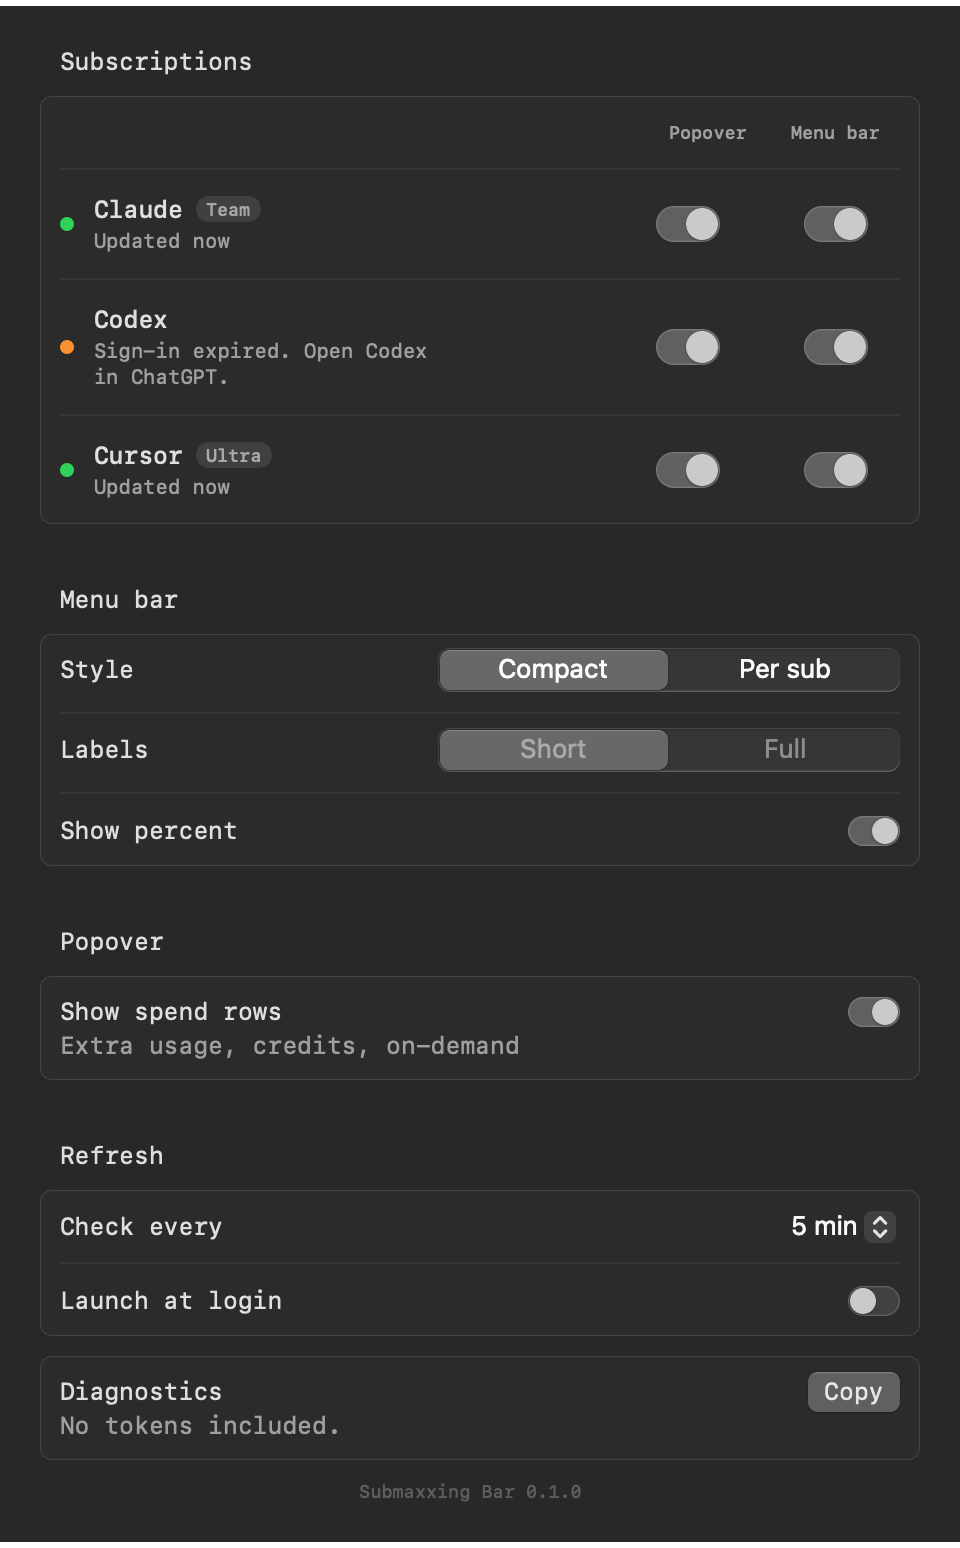
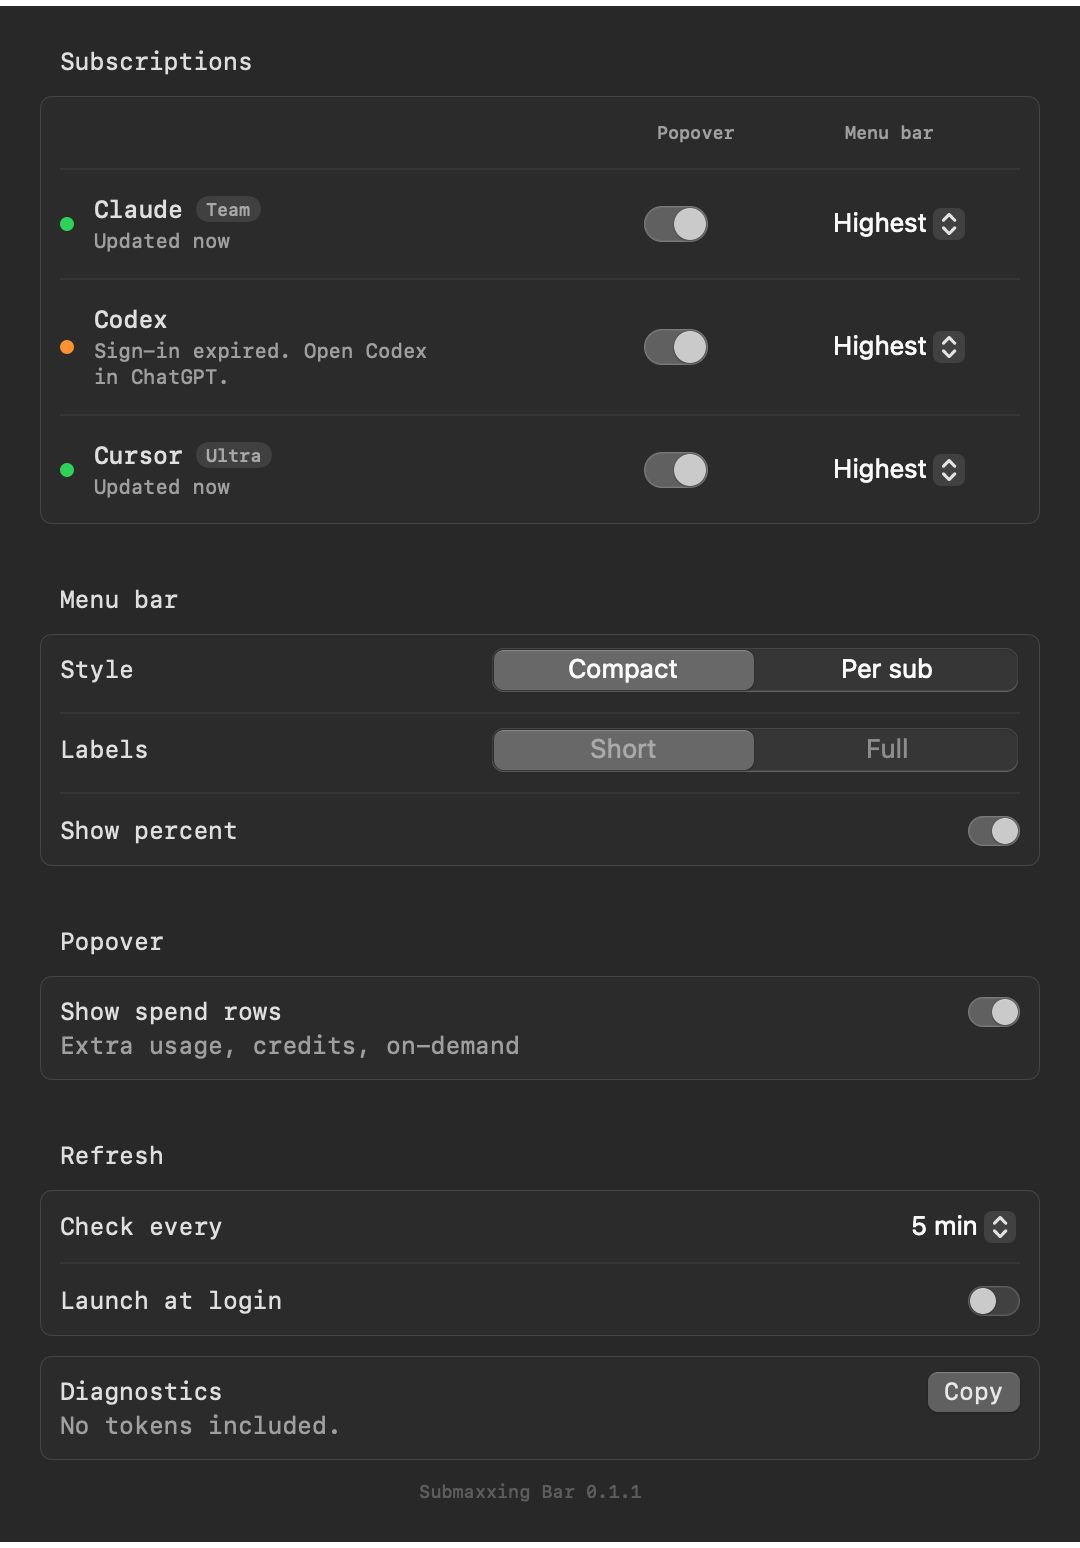
Release 0.1.1: AppKit status item, per-sub menu bar choice, 429 backoff
SwiftUI's MenuBarExtra drew its popover away from the menu bar after
the status item changed width. An NSStatusItem with an NSPopover now
anchors the popover to the button and resizes it with its content.

Each subscription now picks what the menu bar shows: off, its highest
plan meter, or one specific meter. Existing switches migrate to off
or highest.

A 429 now pauses that provider for 5 minutes, doubling up to an hour,
or until Retry-After when the server sends it. The row keeps the last
numbers and shows the next try time. The shortest refresh interval
is now 5 minutes.

release.sh refuses to publish from a dirty tree or an unpushed main.

diff --git a/Sources/SubmaxxingBar/SettingsView.swift b/Sources/SubmaxxingBar/SettingsView.swift
@@ -23,6 +23,7 @@ final class SettingsWindow {
 
 struct SettingsView: View {
     static let column: CGFloat = 64
+    static let menuColumn: CGFloat = 130
 
     let store: UsageStore
     @Bindable var settings: AppSettings
@@ -35,7 +36,7 @@ struct SettingsView: View {
                     HStack(spacing: 0) {
                         Spacer()
                         Text("Popover").frame(width: Self.column)
-                        Text("Menu bar").frame(width: Self.column)
+                        Text("Menu bar").frame(width: Self.menuColumn)
                     }
                     .face(10, .medium)
                     .foregroundStyle(.secondary)
@@ -85,7 +86,7 @@ struct SettingsView: View {
             .formStyle(.grouped)
             .face(13)
             .scrollDisabled(true)
-            .frame(width: 480)
+            .frame(width: 540)
             .fixedSize(horizontal: false, vertical: true)
         }
     }
@@ -117,12 +118,15 @@ struct ProviderRow: View {
                 .toggleStyle(.switch)
                 .controlSize(.small)
                 .frame(width: SettingsView.column)
-            Toggle("Show \(id.displayName) in menu bar", isOn: menuBarBinding)
-                .labelsHidden()
-                .toggleStyle(.switch)
-                .controlSize(.small)
-                .frame(width: SettingsView.column)
-                .disabled(!settings.enabled.contains(id))
+            Picker("Menu bar for \(id.displayName)", selection: choiceBinding) {
+                Text("Off").tag(AppSettings.off)
+                Text("Highest").tag(AppSettings.highest)
+                ForEach(meterChoices, id: \.self) { Text($0).tag($0) }
+            }
+            .labelsHidden()
+            .pickerStyle(.menu)
+            .frame(width: SettingsView.menuColumn)
+            .disabled(!settings.enabled.contains(id))
         }
         .padding(.vertical, 2)
         .help(id.sourceDescription)
@@ -142,13 +146,20 @@ struct ProviderRow: View {
         )
     }
 
-    private var menuBarBinding: Binding<Bool> {
+    private var choiceBinding: Binding<String> {
         Binding(
-            get: { settings.enabled.contains(id) && settings.menuBarProviders.contains(id) },
-            set: { isOn in
-                if isOn { settings.menuBarProviders.insert(id) } else { settings.menuBarProviders.remove(id) }
-            }
+            get: { settings.menuBarChoice(for: id) },
+            set: { settings.menuBarChoices[id] = $0 }
         )
+    }
+
+    private var meterChoices: [String] {
+        var labels = store.entries[id]?.snapshot?.meters.filter { $0.kind == .quota }.map(\.label) ?? []
+        let current = settings.menuBarChoice(for: id)
+        if current != AppSettings.off, current != AppSettings.highest, !labels.contains(current) {
+            labels.append(current)
+        }
+        return labels
     }
 
     private var status: (color: Color, text: String) {

diff --git a/Sources/SubmaxxingBar/UsageStore.swift b/Sources/SubmaxxingBar/UsageStore.swift
@@ -18,6 +18,7 @@ final class UsageStore {
     @ObservationIgnored let settings: AppSettings
     @ObservationIgnored private let providers: [any UsageProvider]
     @ObservationIgnored private var loop: Task<Void, Never>?
+    @ObservationIgnored private var backoff: [ProviderID: (until: Date, attempts: Int)] = [:]
 
     init(providers: [any UsageProvider], settings: AppSettings) {
         self.providers = providers
@@ -36,9 +37,10 @@ final class UsageStore {
 
     func refresh(force: Bool = false) async {
         guard !isRefreshing else { return }
-        if !force, let lastRefresh, Date().timeIntervalSince(lastRefresh) < 60 { return }
+        if !force, let lastRefresh, Date().timeIntervalSince(lastRefresh) < 120 { return }
         isRefreshing = true
-        let active = providers.filter { settings.enabled.contains($0.id) }
+        let now = Date()
+        let active = providers.filter { settings.enabled.contains($0.id) && (backoff[$0.id]?.until ?? .distantPast) <= now }
         let results = await withTaskGroup(of: (ProviderID, Result<UsageSnapshot, FetchError>).self) { group in
             for provider in active {
                 group.addTask {
@@ -59,6 +61,13 @@ final class UsageStore {
             case .success(let snapshot):
                 entry.snapshot = snapshot
                 entry.error = nil
+                backoff[id] = nil
+            case .failure(.rateLimited(let until)):
+                let attempts = (backoff[id]?.attempts ?? 0) + 1
+                let wait = min(3600, 300 * pow(2, Double(attempts - 1)))
+                let next = max(until ?? .distantPast, Date().addingTimeInterval(wait))
+                backoff[id] = (next, attempts)
+                entry.error = .rateLimited(until: next)
             case .failure(let error):
                 entry.error = error
             }
@@ -84,9 +93,15 @@ final class UsageStore {
     }
 
     var menuBarSegments: [MenuBarImage.Segment] {
-        let items = visible
-            .filter { settings.menuBarProviders.contains($0) }
-            .compactMap { id in entries[id]?.snapshot?.peakPercent.map { (id: id, percent: $0) } }
+        let items: [(id: ProviderID, percent: Double)] = visible.compactMap { id in
+            let choice = settings.menuBarChoice(for: id)
+            guard choice != AppSettings.off, let snapshot = entries[id]?.snapshot else { return nil }
+            if choice != AppSettings.highest,
+               let meter = snapshot.meters.first(where: { $0.kind == .quota && $0.label == choice }) {
+                return (id, meter.usedPercent)
+            }
+            return snapshot.peakPercent.map { (id, $0) }
+        }
         switch settings.menuBarStyle {
         case .compact:
             guard let peak = items.map(\.percent).max() else { return [] }

diff --git a/Sources/SubmaxxingBar/AppSettings.swift b/Sources/SubmaxxingBar/AppSettings.swift
@@ -38,15 +38,20 @@ extension ProviderID {
 @MainActor
 @Observable
 final class AppSettings {
-    static let refreshChoices = [2, 5, 10, 15]
+    static let refreshChoices = [5, 10, 15, 30]
+    static let off = "off"
+    static let highest = "highest"
 
     @ObservationIgnored private let defaults: UserDefaults
 
     var enabled: Set<ProviderID> {
         didSet { save(enabled, forKey: "enabled") }
     }
-    var menuBarProviders: Set<ProviderID> {
-        didSet { save(menuBarProviders, forKey: "menuBarProviders") }
+    var menuBarChoices: [ProviderID: String] {
+        didSet {
+            let stored = Dictionary(uniqueKeysWithValues: menuBarChoices.map { ($0.key.rawValue, $0.value) })
+            defaults.set(stored, forKey: "menuBarChoices")
+        }
     }
     var menuBarStyle: MenuBarStyle {
         didSet { defaults.set(menuBarStyle.rawValue, forKey: "menuBarStyle") }
@@ -71,13 +76,27 @@ final class AppSettings {
     init(defaults: UserDefaults = .standard) {
         self.defaults = defaults
         enabled = Self.providers(defaults, forKey: "enabled")
-        menuBarProviders = Self.providers(defaults, forKey: "menuBarProviders")
+        if let stored = defaults.dictionary(forKey: "menuBarChoices") as? [String: String] {
+            menuBarChoices = Dictionary(uniqueKeysWithValues: stored.compactMap { key, value in
+                ProviderID(rawValue: key).map { ($0, value) }
+            })
+        } else {
+            let legacy = defaults.stringArray(forKey: "menuBarProviders")
+            menuBarChoices = Dictionary(uniqueKeysWithValues: ProviderID.allCases.map { id in
+                (id, legacy.map { $0.contains(id.rawValue) ? Self.highest : Self.off } ?? Self.highest)
+            })
+        }
         menuBarStyle = MenuBarStyle(rawValue: defaults.string(forKey: "menuBarStyle") ?? "") ?? .compact
         menuBarLabels = MenuBarLabels(rawValue: defaults.string(forKey: "menuBarLabels") ?? "") ?? .short
         showPercent = defaults.object(forKey: "showPercent") as? Bool ?? true
         showSpend = defaults.object(forKey: "showSpend") as? Bool ?? true
-        refreshMinutes = defaults.object(forKey: "refreshMinutes") as? Int ?? 5
+        let storedMinutes = defaults.object(forKey: "refreshMinutes") as? Int ?? 5
+        refreshMinutes = Self.refreshChoices.contains(storedMinutes) ? storedMinutes : 5
         launchAtLogin = SMAppService.mainApp.status == .enabled
+    }
+
+    func menuBarChoice(for id: ProviderID) -> String {
+        menuBarChoices[id] ?? Self.highest
     }
 
     private static func providers(_ defaults: UserDefaults, forKey key: String) -> Set<ProviderID> {

diff --git a/Sources/SubmaxxingBar/StatusItemController.swift b/Sources/SubmaxxingBar/StatusItemController.swift
@@ -1,0 +1,68 @@
+import AppKit
+import LimitsCore
+import Observation
+import SwiftUI
+
+@MainActor
+final class StatusItemController: NSObject {
+    private(set) static var shared: StatusItemController?
+
+    private let store: UsageStore
+    private let item = NSStatusBar.system.statusItem(withLength: NSStatusItem.variableLength)
+    private let popover = NSPopover()
+
+    init(store: UsageStore) {
+        self.store = store
+        super.init()
+        item.autosaveName = "submaxxing-bar"
+        item.button?.target = self
+        item.button?.action = #selector(toggle)
+        item.button?.toolTip = AppInfo.name
+        let hosting = NSHostingController(rootView: MenuContent(store: store, refreshOnAppear: false))
+        hosting.sizingOptions = [.preferredContentSize]
+        popover.contentViewController = hosting
+        popover.behavior = .transient
+        Self.shared = self
+        observeLabel()
+    }
+
+    func closePopover() {
+        popover.performClose(nil)
+    }
+
+    private func observeLabel() {
+        withObservationTracking {
+            renderLabel()
+        } onChange: { [weak self] in
+            Task { @MainActor in self?.observeLabel() }
+        }
+    }
+
+    private func renderLabel() {
+        let segments = store.menuBarSegments
+        let settings = store.settings
+        if segments.isEmpty {
+            let image = NSImage(systemSymbolName: "gauge.with.dots.needle.33percent", accessibilityDescription: AppInfo.name)
+            image?.isTemplate = true
+            item.button?.image = image
+        } else {
+            item.button?.image = MenuBarImage.make(
+                segments,
+                showPercent: settings.showPercent,
+                percentSign: settings.menuBarStyle == .compact
+            )
+        }
+    }
+
+    @objc private func toggle() {
+        if popover.isShown {
+            popover.performClose(nil)
+            return
+        }
+        guard let button = item.button else { return }
+        Task { await store.refresh() }
+        NSApp.activate()
+        popover.show(relativeTo: button.bounds, of: button, preferredEdge: .minY)
+        popover.contentViewController?.view.window?.makeKey()
+    }
+}

diff --git a/Sources/SubmaxxingBar/Views.swift b/Sources/SubmaxxingBar/Views.swift
@@ -52,23 +52,6 @@ enum Level {
     }
 }
 
-struct MenuBarLabel: View {
-    let store: UsageStore
-
-    var body: some View {
-        let segments = store.menuBarSegments
-        if segments.isEmpty {
-            Image(systemName: "gauge.with.dots.needle.33percent")
-        } else {
-            Image(nsImage: MenuBarImage.make(
-                segments,
-                showPercent: store.settings.showPercent,
-                percentSign: store.settings.menuBarStyle == .compact
-            ))
-        }
-    }
-}
-
 enum MenuBarImage {
     struct Segment: Sendable, Equatable {
         let label: String?
@@ -155,6 +138,7 @@ struct MenuContent: View {
             }
             .padding(14)
             .frame(width: 290)
+            .fixedSize(horizontal: false, vertical: true)
         }
         .onAppear {
             guard refreshOnAppear else { return }
@@ -263,7 +247,10 @@ struct Footer: View {
         HStack(spacing: 14) {
             Text(status).face(11).foregroundStyle(.tertiary)
             Spacer()
-            Button { SettingsWindow.shared.show(store: store) } label: { Image(systemName: "gearshape") }
+            Button {
+                StatusItemController.shared?.closePopover()
+                SettingsWindow.shared.show(store: store)
+            } label: { Image(systemName: "gearshape") }
                 .keyboardShortcut(",")
                 .help("Settings")
             Button { Task { await store.refresh(force: true) } } label: { Image(systemName: "arrow.clockwise") }

diff --git a/Sources/LimitsCore/Support.swift b/Sources/LimitsCore/Support.swift
@@ -80,7 +80,10 @@ enum JWT {
 }
 
 enum HTTP {
-    struct StatusError: Error { let code: Int }
+    struct StatusError: Error {
+        let code: Int
+        let retryAfter: Double?
+    }
 
     static let session = URLSession(configuration: .ephemeral)
 
@@ -90,8 +93,11 @@ enum HTTP {
         request.setValue("SubmaxxingBar/0.1", forHTTPHeaderField: "User-Agent")
         for (name, value) in headers { request.setValue(value, forHTTPHeaderField: name) }
         let (data, response) = try await session.data(for: request)
-        let code = (response as? HTTPURLResponse)?.statusCode ?? 0
-        guard code == 200 else { throw StatusError(code: code) }
+        let http = response as? HTTPURLResponse
+        let code = http?.statusCode ?? 0
+        guard code == 200 else {
+            throw StatusError(code: code, retryAfter: http?.value(forHTTPHeaderField: "Retry-After").flatMap(Double.init))
+        }
         return data
     }
 
@@ -99,7 +105,11 @@ enum HTTP {
         do {
             return try await get(url, headers: headers)
         } catch let error as StatusError {
-            throw error.code == 401 || error.code == 403 ? rejected(error.code) : FetchError.http(error.code)
+            switch error.code {
+            case 429: throw FetchError.rateLimited(until: error.retryAfter.map { Date().addingTimeInterval($0) })
+            case 401, 403: throw rejected(error.code)
+            default: throw FetchError.http(error.code)
+            }
         }
     }
 }

diff --git a/Sources/LimitsCore/Models.swift b/Sources/LimitsCore/Models.swift
@@ -81,6 +81,7 @@ public enum FetchError: Error, Equatable, Sendable {
     case needsSignIn(String)
     case unsupported(String)
     case http(Int)
+    case rateLimited(until: Date?)
     case badResponse(String)
     case network(String)
 
@@ -90,6 +91,8 @@ public enum FetchError: Error, Equatable, Sendable {
         case .needsSignIn(let hint): hint
         case .unsupported(let text): text
         case .http(let code): "HTTP \(code)"
+        case .rateLimited(let until):
+            until.map { "Rate limited. Next try \($0.formatted(date: .omitted, time: .shortened))." } ?? "Rate limited."
         case .badResponse(let text): text
         case .network(let text): text
         }

diff --git a/Sources/SubmaxxingBar/main.swift b/Sources/SubmaxxingBar/main.swift
@@ -20,6 +20,10 @@ if arguments.contains("--dump") {
     Preview.render(to: arguments[index + 1], dark: arguments.contains("--dark"), settingsPage: arguments.contains("--settings"), typeface: typeface)
     exit(0)
 } else {
-    NSApplication.shared.setActivationPolicy(.accessory)
-    SubmaxxingApp.main()
+    let app = NSApplication.shared
+    app.setActivationPolicy(.accessory)
+    let store = UsageStore(providers: arguments.contains("--demo") ? Demo.providers : Providers.all, settings: AppSettings())
+    let controller = StatusItemController(store: store)
+    store.start()
+    withExtendedLifetime(controller) { app.run() }
 }

diff --git a/Sources/SubmaxxingBar/AppInfo.swift b/Sources/SubmaxxingBar/AppInfo.swift
@@ -1,4 +1,4 @@
 enum AppInfo {
     static let name = "Submaxxing Bar"
-    static let version = "0.1.0"
+    static let version = "0.1.1"
 }

diff --git a/README.md b/README.md
@@ -30,8 +30,9 @@ New menu bar items can start hidden. If you do not see the meter, check Bartende
 
 <img src="docs/menubar.png" width="400" alt="Menu bar styles">
 
-- Show or hide each subscription in the popover and in the menu bar.
-- Pick a menu bar style: compact (the highest meter) or one meter per subscription.
+- Show or hide each subscription in the popover.
+- Pick what each subscription shows in the menu bar: off, its highest meter, or one specific meter (for example Session or Weekly).
+- Pick a menu bar style: compact (the highest of your picks) or one meter per subscription.
 - Hide spend rows (extra usage, credits, on-demand). Spend rows never drive the menu bar.
 - Set the refresh interval, launch at login, and copy diagnostics. Diagnostics never include tokens.
 
